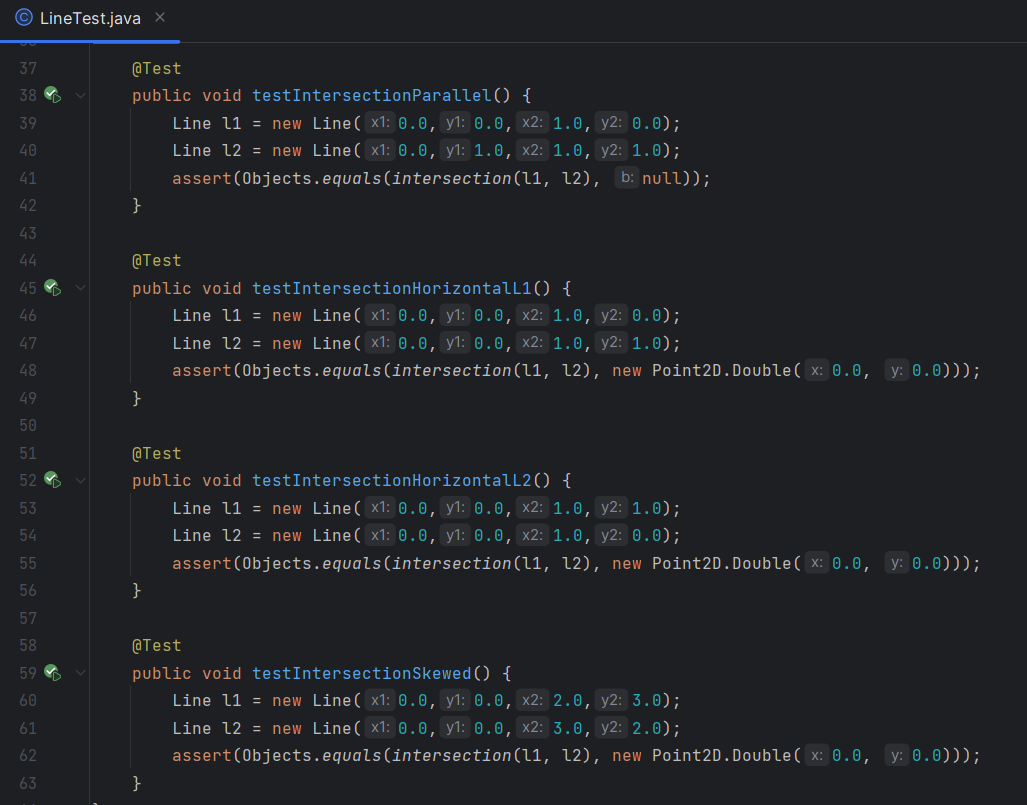
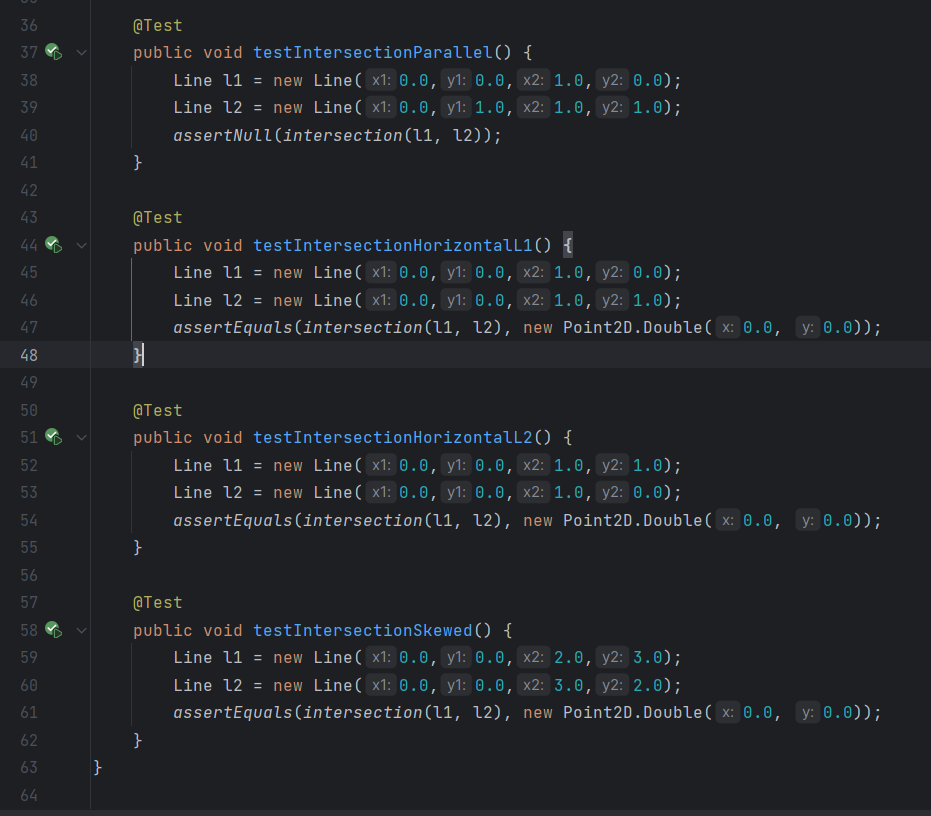
Update for new assert changes
show changes from assert to assertTrue/etc.

diff --git a/README.md b/README.md
@@ -161,7 +161,7 @@ https://github.com/Te-Michael/Algorithms/commit/51bde4e28931c187ed74179dd474cda7
 ### Individual tests
 
 Test 1: PrimeTest() https://github.com/Te-Michael/Algorithms/commit/094ae0ed94010054461d8d15bec99d3b5da3191f <br>
-![primetestfunction.PNG](readMeImages/primetestfunction.PNG)<br>
+![primetest.PNG](readMeImages/primetest.PNG)<br>
 
 Old coverage:<br>
 ![aa1coveragebefore.PNG](readMeImages/aa1coveragebefore.PNG)
@@ -178,7 +178,7 @@ to be zero as there was originally no test function in the test package.
 
 Test 2: LineTest.testCoverage() https://github.com/Te-Michael/Algorithms/commit/51bde4e28931c187ed74179dd474cda7812ddb10 <br>
 ![linetest1.PNG](readMeImages/linetest1.PNG)
-![linetest2.PNG](readMeImages/linetest2.PNG) <br>
+![linetest2.PNG](readMeImages/linetest2.PNG)<br>
 
 
 Old coverage: <br>
